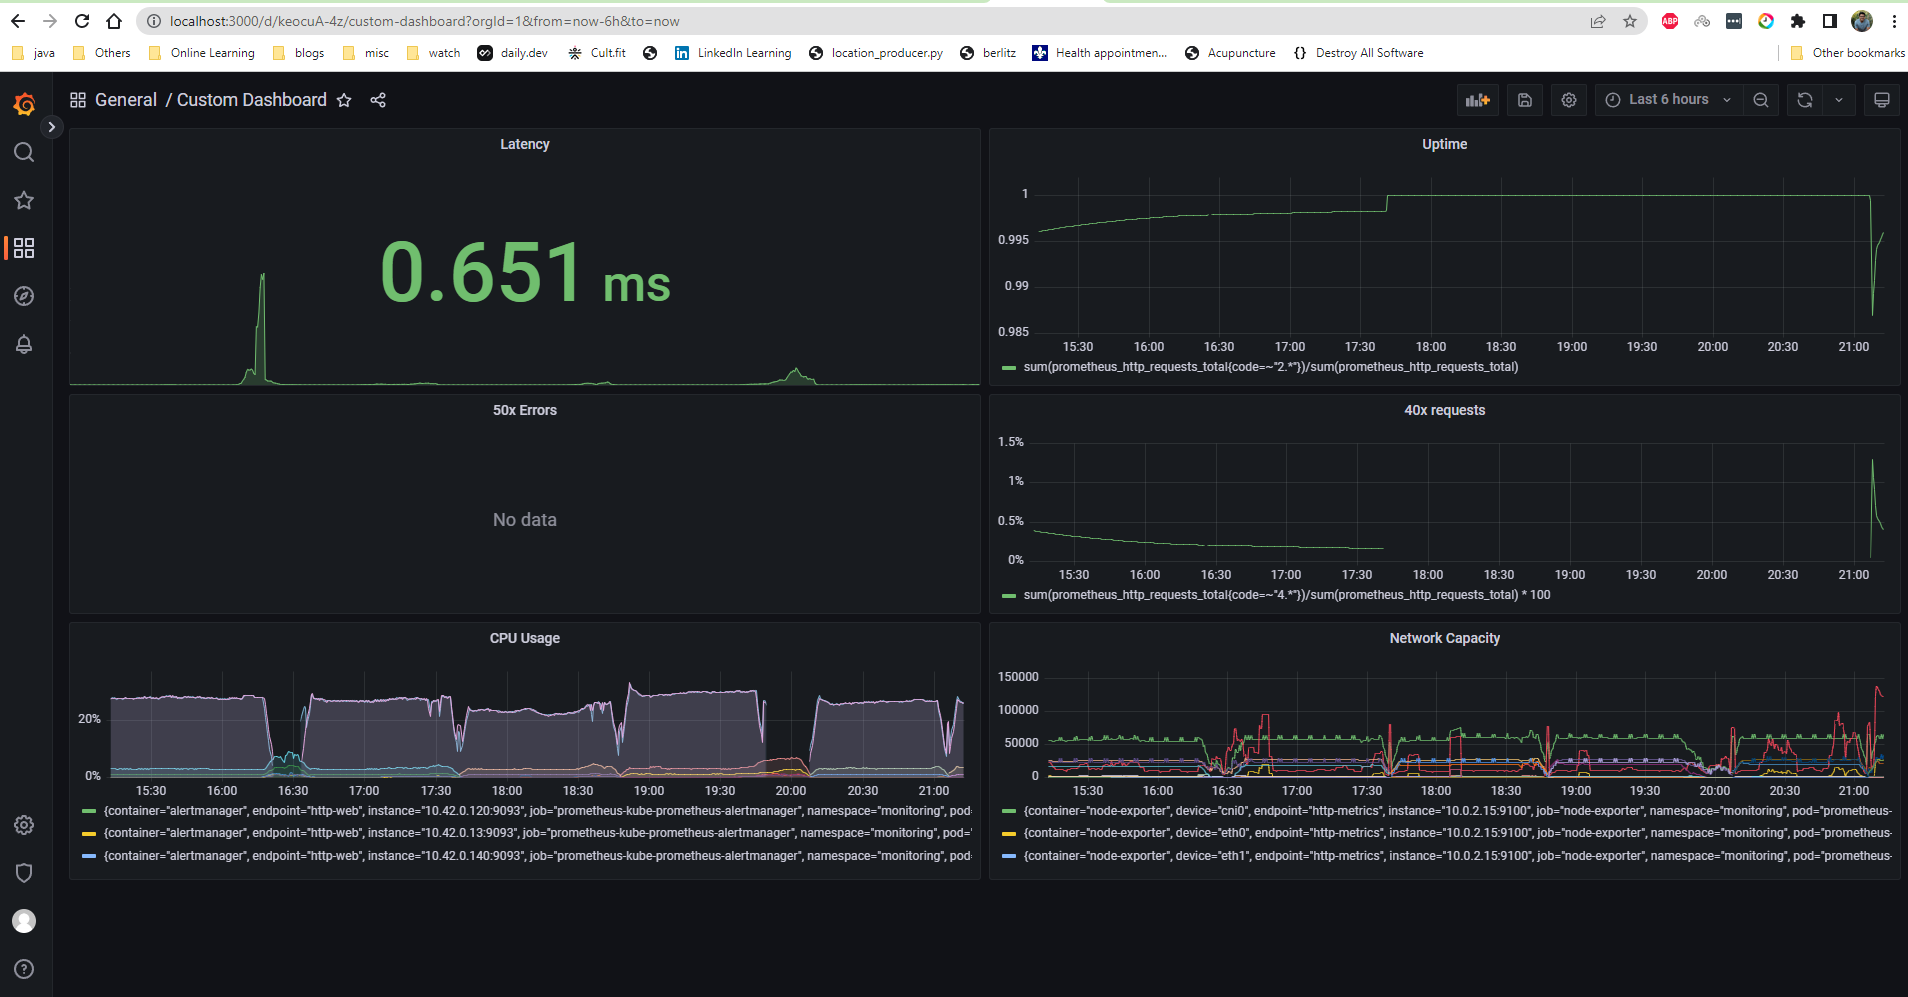
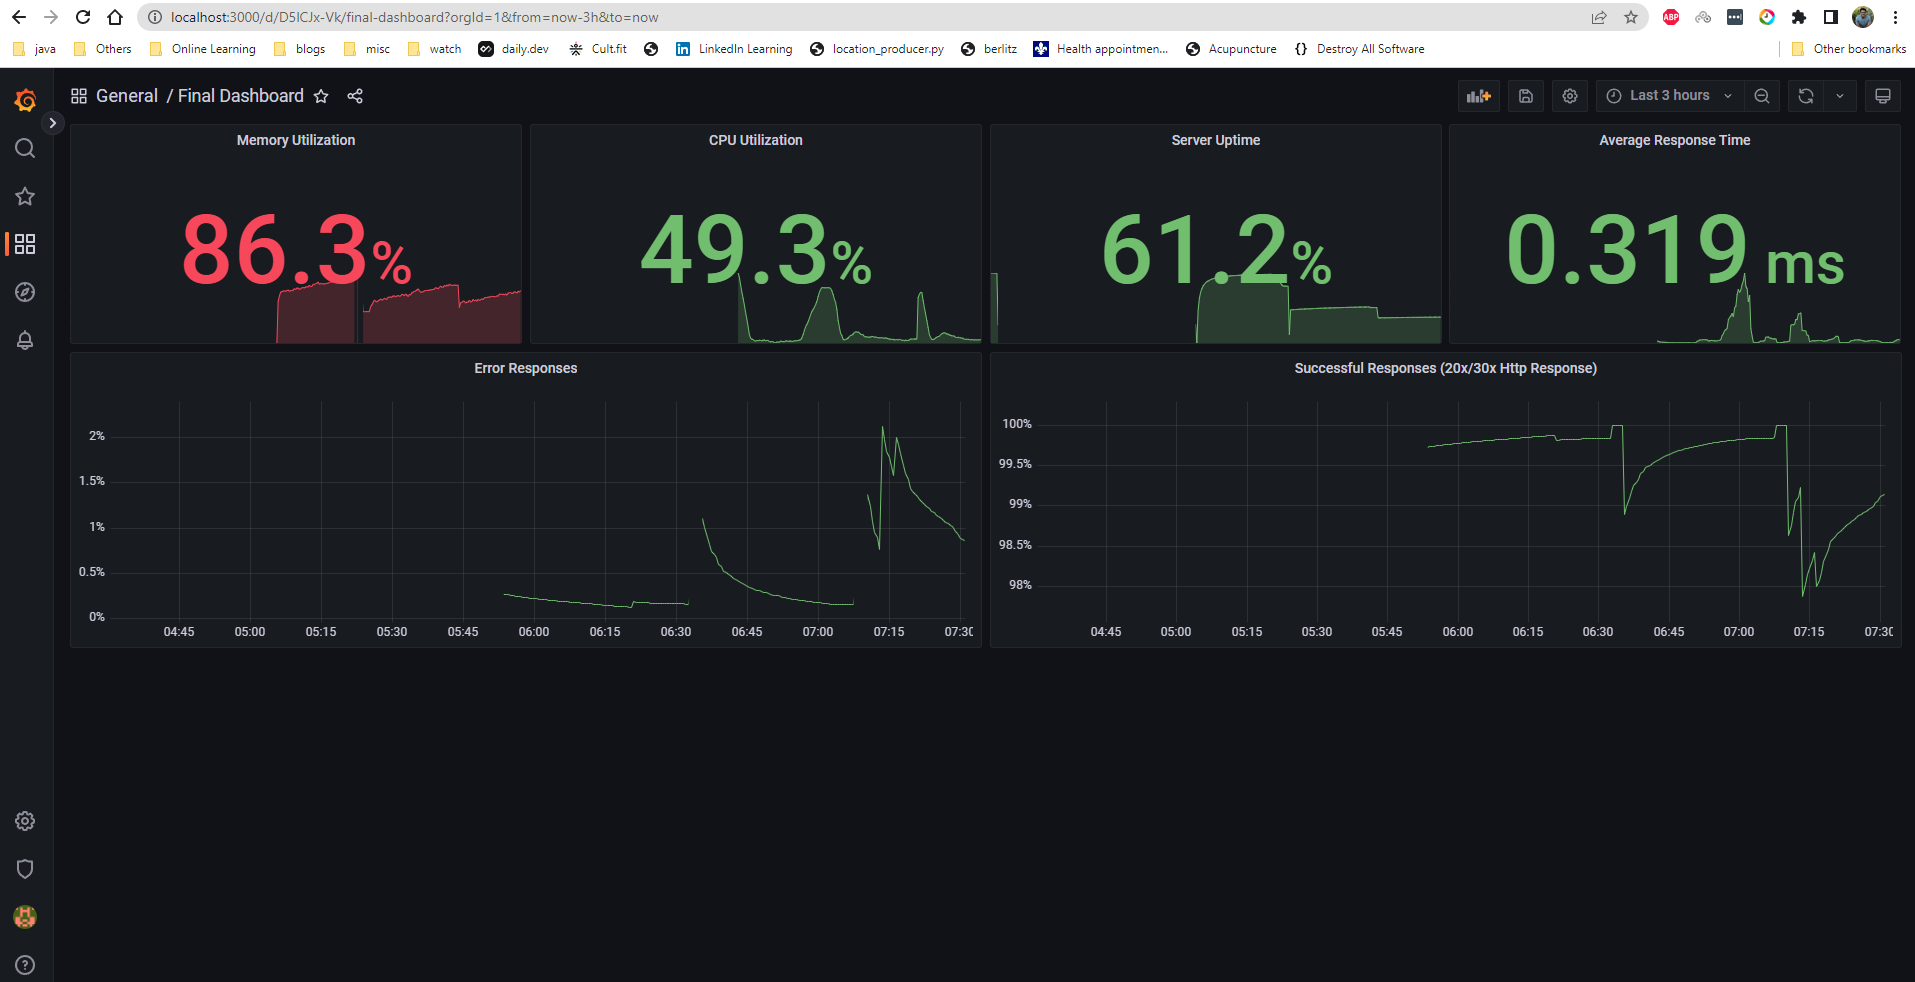
updated read me

diff --git a/README.md b/README.md
@@ -90,50 +90,26 @@ Description: method not allowed for star api. The tracer span is 955b9083eede074
 *TODO:* We want to create an SLO guaranteeing that our application has a 99.95% uptime per month. Name four SLIs that you would use to measure the success of this SLO.
 **SLOs:**
 
-1. Latency: Application responses should be served within 2000 ms per month. 
-2. Uptime: 99% of uptime per month
-3. Failure Rate: .05% of 40x/50x responses per month.
-4. Network Capacity: the network must be able to serve upto 10Mb data per month
-5. Resource Capacity: Monthly average CPU usage should be 65% or less
-
-**SLIs:** 
-
-(All numbers are for month of februaury 2023)
-1. Latency Report: average 1150 ms for all requests.
-2. Uptime: the average uptime for webservice is around 99.5%.
-3. Failure Rate: less than 1% of total requests had 50x response.
-4. Network Capacity: average data served by network was around 5.3Mb
-5. Resource Capacity: The average CPU usage is around 25.9%
+1. Latency: The response time of the 90% requests should be less than 30ms per month. 
+2. Uptime: There must be atleast 99% uptime per month.
+3. Failure Rate: More than 99% of all requests must execute without any errors.
+4. Resource usage: The usage of CPU and RAM must not exceed 80% per month.
 
 ## Building KPIs for our plan
 *TODO*: Now that we have our SLIs and SLOs, create a list of 2-3 KPIs to accurately measure these metrics as well as a description of why those KPIs were chosen. We will make a dashboard for this, but first write them down here.
 
-1. It took an average of 1070 ms for incoming requests to be served.
-   - Monthly traffic - indicates the number of requests served
-   - Monthly uptime - indicates the total usability
-   - Latency - indicates average response time.
-2. the average uptime for webservice is around 98%.
-   - Monthly traffic - indicates the number of requests served
-   - Monthly uptime - indicates the total usability
-   - 20x code reponses - indicates general availability
-3. Less than 1% of the total incoming requests had 40x/50x responses
-   - Monthly downtime - tells the time period for which serivce was not available
-   - Errors per month - tells the failure rate (errors) of application
-4. Average data served by network was around 5.3Mb
-   - Monthly memory usage of pod used by the application - indicates average memory is used by the source pod of the application.
-   - Monthly memory usage of all the pods -  indicates average memory used by all the pods required to run the application.
-5. The average CPU usage of the application is 25.9%
-   - Monthly memory usage of pod used by the application - indicates average memory is used by the source pod of the application.
-   - Monthly memory usage of all the pods -  indicates average memory used by all the pods required to run the application.
+1. Uptime : Given our uptime must be at least 99%, the Uptime KPI helps to measure it.
+2. Error Rate : Since more than 99% of all requests must execute without any errors, this KPI helps to see the rate of errors in the application.
+3. Resource capcity: This KPI was chosen because the usage of CPU and RAM must not exceed 90% per month. Resource Capacity KPI allows us to monitor their consumption.
 
 ## Final Dashboard
 *TODO*: Create a Dashboard containing graphs that capture all the metrics of your KPIs and adequately representing your SLIs and SLOs. Include a screenshot of the dashboard here, and write a text description of what graphs are represented in the dashboard.  
 
 ![alt final dash](https://github.com/vaibhavg12/udacity-CNAA-ObservabilityDashboard/blob/master/answer-img/final_dashboard.png)
 
-1. Latency panel - it shows the average response time of the application per request.  this represents the 20x/30x (successful) responses.
-2. Uptime panel - shows the availability of application in terms of successful (20x/30x) responses 
-3. 40x requests panel - shows a ratio of 40x responses to total responses.
-5. 50x requests panel - shows a ratio of 40x responses to total responses.
-4. CPU Usage panel - it is an indicator of the avg CPU (memory) usage of the different containers.
-5. Network Capacity - shows average data processed by the system
+1. Memory Utlilization: shows the percentage memory(RAM) used by our applicaiton 
+2. CPU Utlilization: shows the percentage CPU used by our applicaiton 
+3. Server Uptime: shows the avg uptime of our application 
+4. Average Response Time: shows the average latency of our application 
+5. Error Responses : shows the ratio of error (40x/50x) HTTP responses to total HTTP responses as a percentage
+6. Successful Responses : shows the ratio of successful (20x/30x) HTTP responses to total HTTP responses as a percentage
